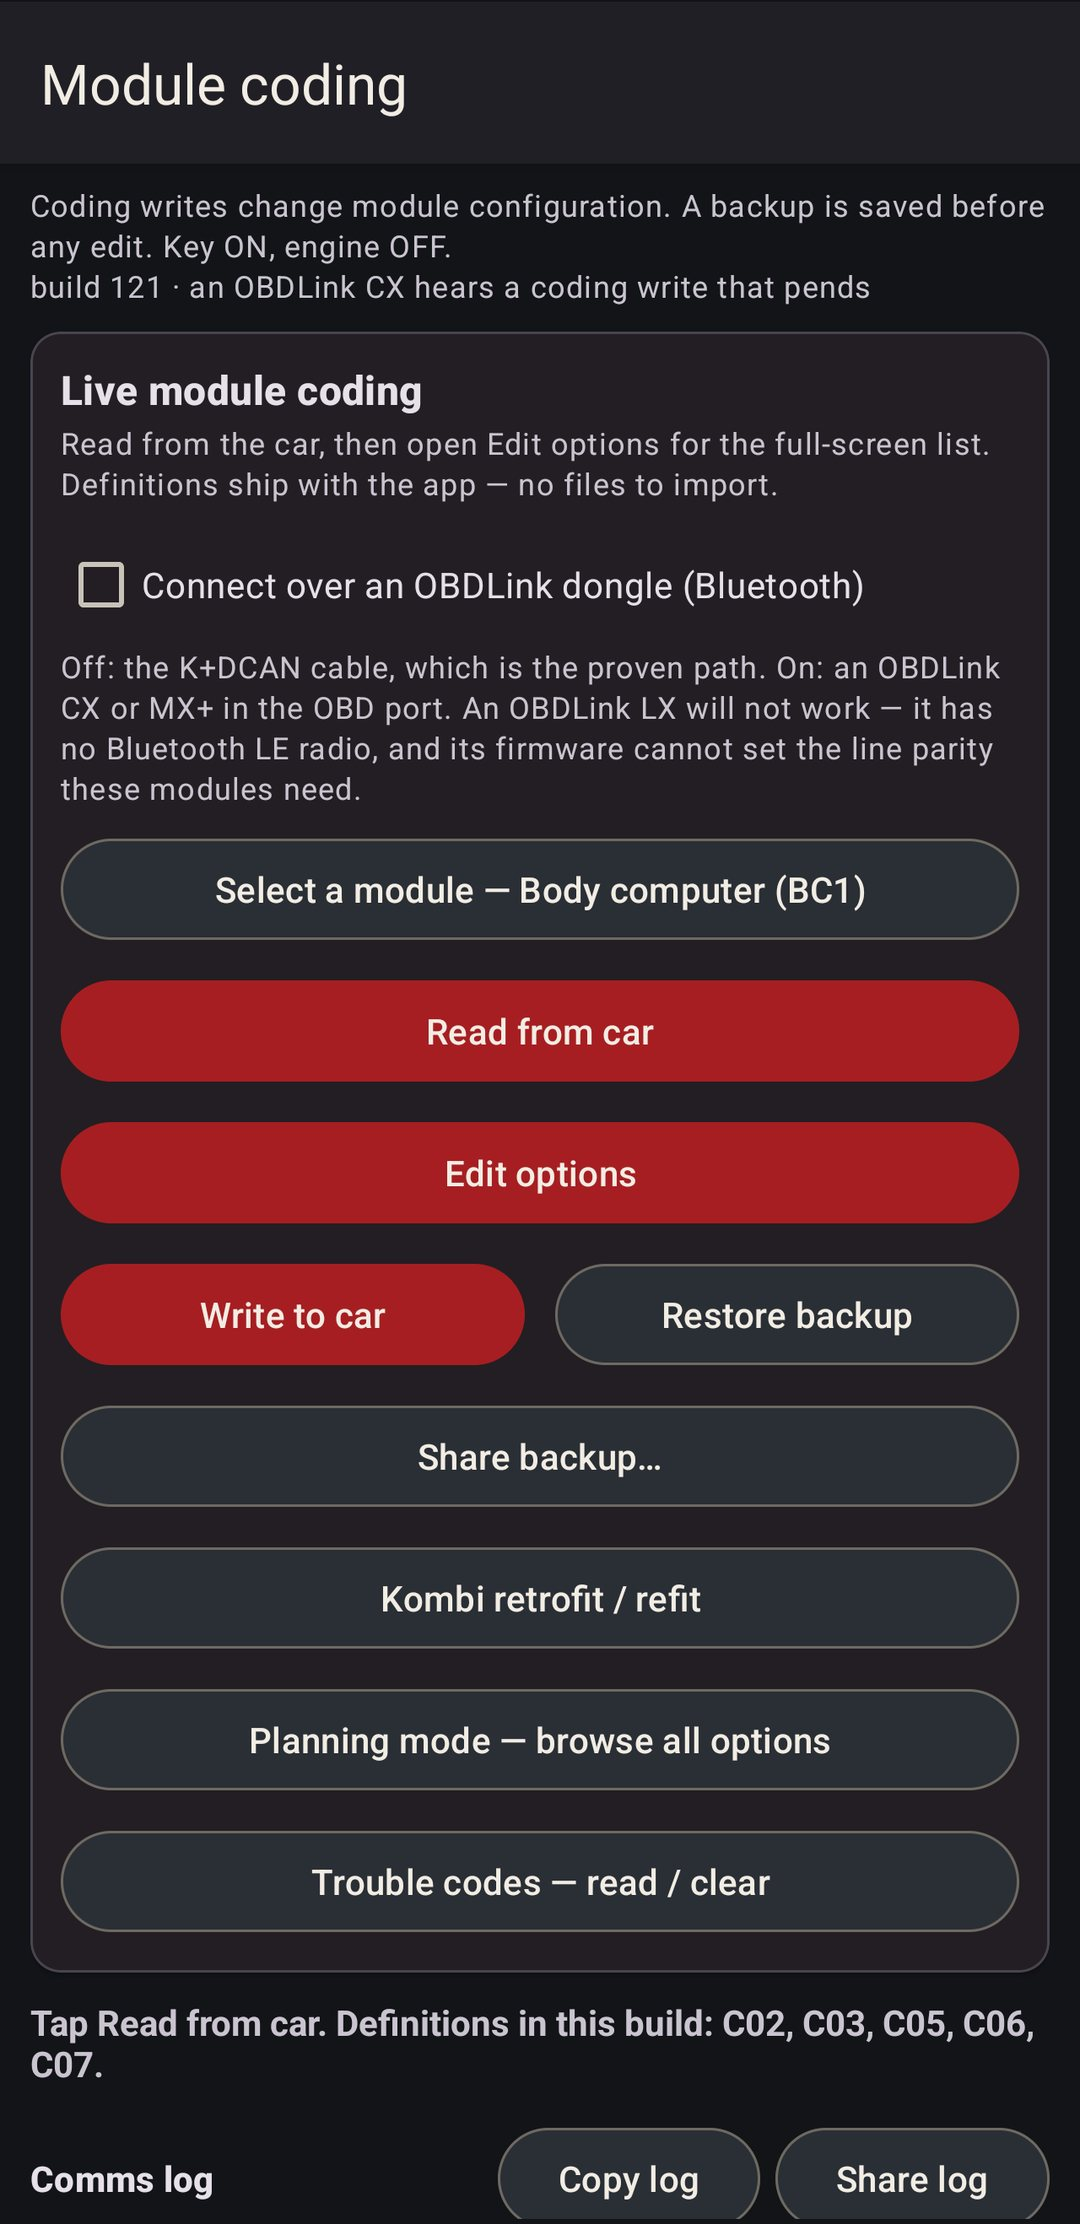
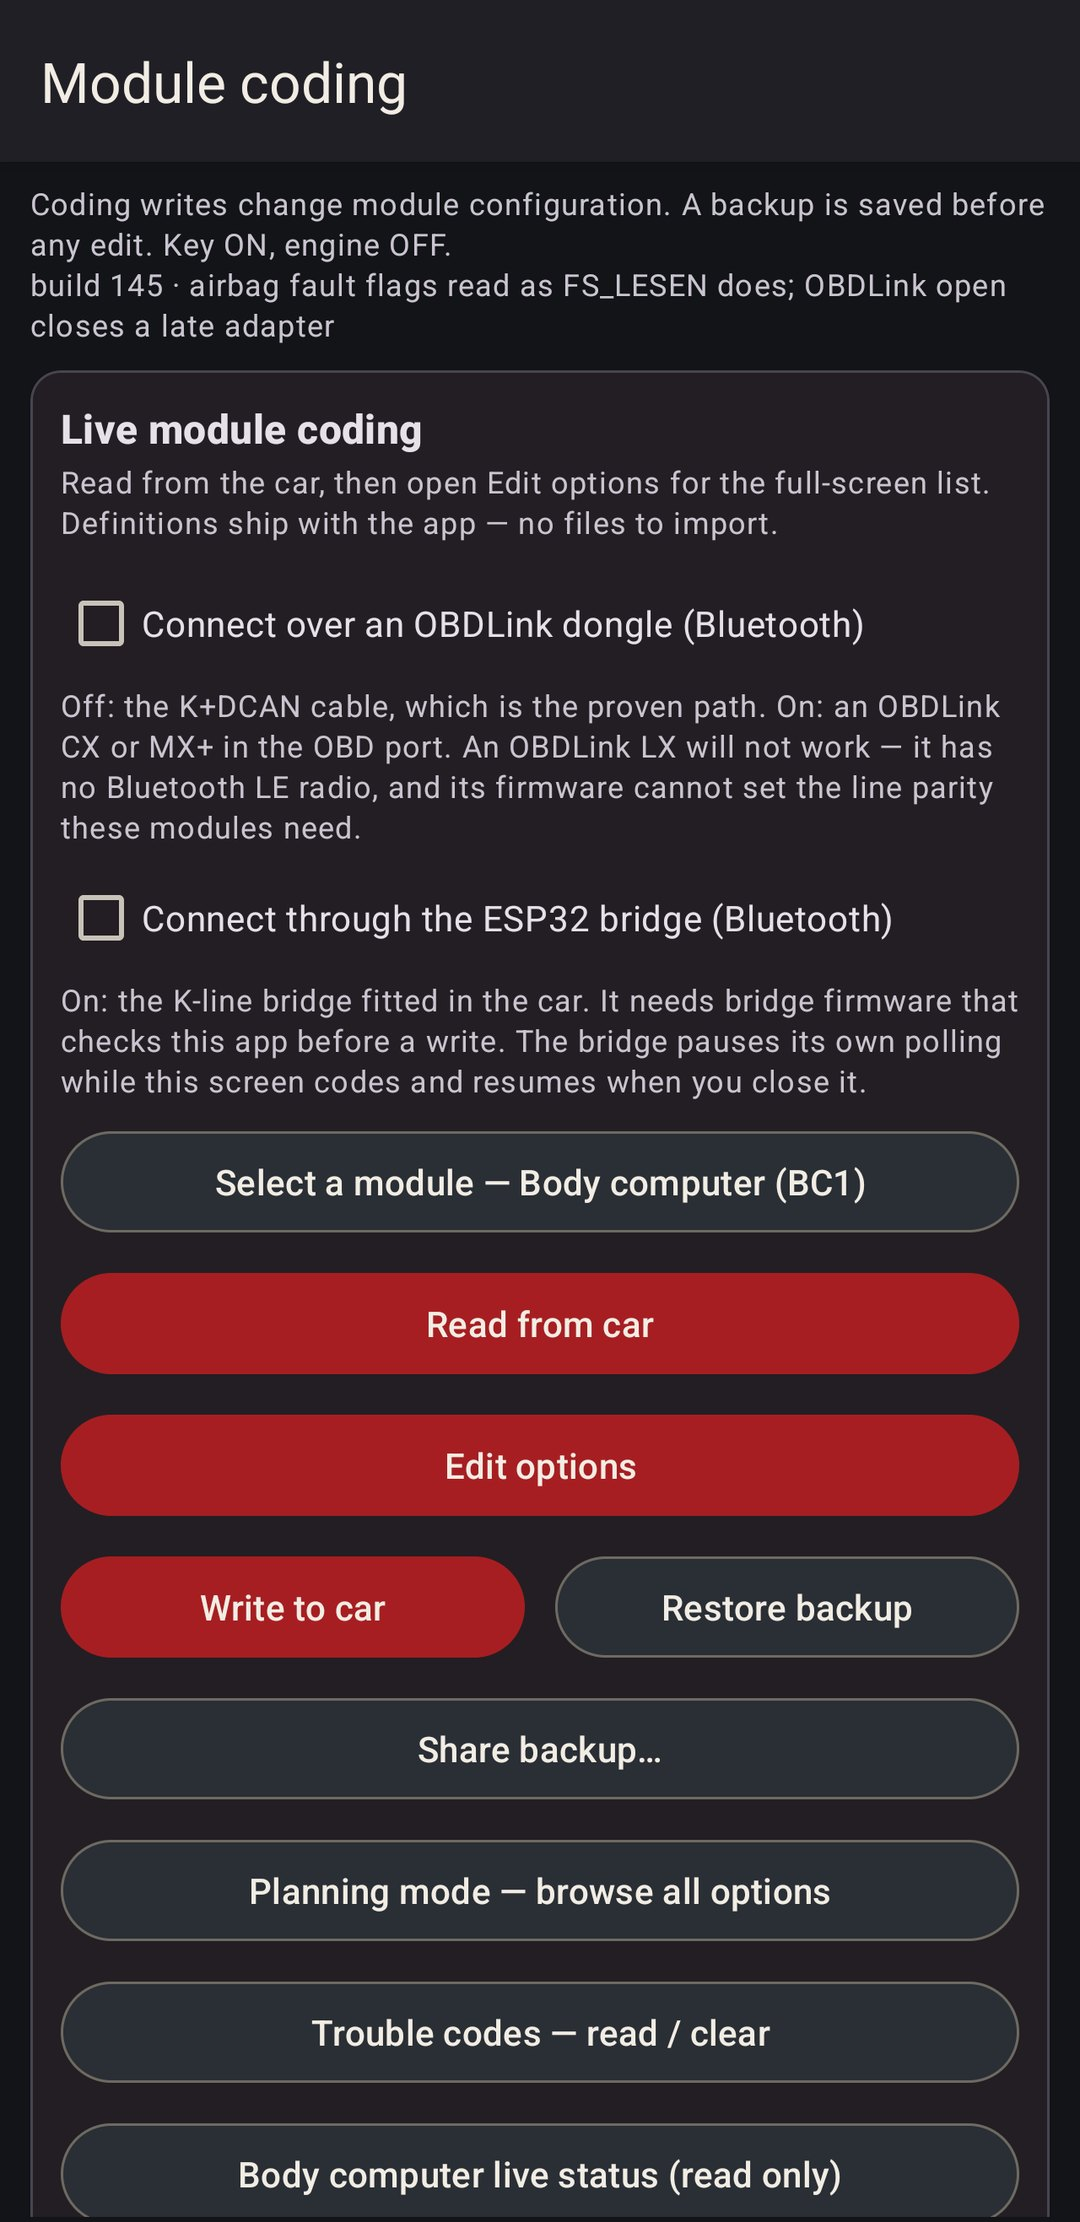
R53 Coding page: diagnostics section, build 145 hub
New section 10 covers the four hub screens added in coding 131-139: body
computer live status (window test, remote key check), body computer tests
and history, the power steering pump (EHPS) and tire pressure. Screenshots
for all four plus a build 145 hub. The section says plainly that none of it
has run on a car and that the shots are an emulator on made-up replies.

Unlock note now says the diagnostic reads are free and their tests, resets
and writes need the unlock. Later sections renumbered 11-15.

Claude-Session: https://claude.ai/code/session_01TVe7KYZoMraKF8iG3p8T4N

diff --git a/_includes/r53-coding-feature.html b/_includes/r53-coding-feature.html
@@ -3,7 +3,11 @@
      condensed display type, and the red tester-signup cards it shares with the logger.
      Rendered by _posts/2026-07-26-r53-coding.md. Edit here, not in the post.
      Screenshots: assets/images/r53-coding/v2/, from a Pixel 10 Pro emulator on
-     coding build 121 with the REDcar (TD91H) backups loaded. -->
+     coding build 121 with the REDcar (TD91H) backups loaded. hub.jpg and the four
+     diagnostics shots (bc1-live, bc1-tools, ehps, tpms) are build 145 debug, with the
+     debug-only buttons hidden. bc1-live runs on the app's own demo_bc1_live replies;
+     the other three ran on a throwaway local demo wire answering with unit-test style
+     replies, never committed. None of those screens has run on a car. -->
 <link rel="preconnect" href="https://fonts.googleapis.com">
 <link rel="preconnect" href="https://fonts.gstatic.com" crossorigin>
 <link rel="stylesheet" href="https://fonts.googleapis.com/css2?family=Big+Shoulders+Display:wght@700;800;900&family=Schibsted+Grotesk:ital,wght@0,400;0,500;0,600;1,400&family=IBM+Plex+Mono:wght@400;500&display=swap">
@@ -113,7 +117,7 @@
 <h1>NCS Expert,<br><em>minus the laptop.</em></h1>
 <p class="lede">R53 Coding reads and writes the settings inside your MINI's modules, the same ones NCS Expert codes, from an Android phone. Seven modules, every setting in plain English, and a backup before anything changes.</p>
 <div class="ctas"><a class="btn red" href="#get-it">Join the testers</a><a class="btn ghost" href="#whats-new">What's new</a></div>
-<p class="news"><b>Updated Sep 30</b> · seven modules, OBDLink CX and MX+, fault codes in English, presets, race seats, speedometer calibration and settings transfer. Sign-up is open to anyone now.</p>
+<p class="news"><b>Updated Oct 5</b> · <a href="#diagnostics">diagnostics</a> for the body computer, the power steering pump and tire pressure, built from the INPA job files and not run on a car yet. Before that: seven modules, OBDLink CX and MX+, fault codes in English, presets, race seats, speedometer calibration and settings transfer. Sign-up is open to anyone.</p>
 </div>
 <figure class="phone"><img src="/assets/images/r53-coding/v2/edit-row.jpg" alt="Edit options on the body computer: brake light warning, country variant and daytime running lights, each with its NCS name, a description and the current value" loading="eager"><figcaption>Body computer · every setting in plain English</figcaption></figure>
 </div>
@@ -132,7 +136,7 @@
 <div class="tiles">
 <a href="#modules"><span class="k">Modules</span><span class="t">Seven, live</span><span class="p">Body, engine, DSC, airbag, cluster, immobilizer and the column pod.</span><span class="bar"></span></a>
 <a href="#connect"><span class="k">Wireless</span><span class="t">OBDLink CX and MX+</span><span class="p">Code over Bluetooth, no cable. An LX can't do it, and the app says so by name.</span><span class="bar"></span></a>
-<a href="#trouble-codes"><span class="k">Diagnostics</span><span class="t">Faults in English</span><span class="p">Every module reads and clears its codes, with names, not bare hex.</span><span class="bar"></span></a>
+<a href="#trouble-codes"><span class="k">Diagnostics</span><span class="t">Faults, live data, tests</span><span class="p">Every module's codes in English. New: live data and tests from the INPA jobs.</span><span class="bar"></span></a>
 <a href="#presets"><span class="k">One tap</span><span class="t">Presets</span><span class="p">Daily Comfort and Track Day stage the usual set of changes for a module.</span><span class="bar"></span></a>
 <a href="#race-seats"><span class="k">Airbag</span><span class="t">Race seats</span><span class="p">Asks which side the driver sits on and shows every airbag it will turn off.</span><span class="bar"></span></a>
 <a href="#speedo"><span class="k">Cluster</span><span class="t">Speedo calibration</span><span class="p">Enter what the cluster and a GPS say. The app works out the new number.</span><span class="bar"></span></a>
@@ -154,7 +158,7 @@
 </ol>
 <p class="body">The comms log at the bottom shows every telegram. If something goes sideways, Share log gets it to me.</p>
 </div>
-<figure class="phone"><img src="/assets/images/r53-coding/v2/hub.jpg" alt="The coding hub: OBDLink checkbox, module picker, Read from car, Edit options, Write to car, Restore backup, Planning mode and Trouble codes" loading="lazy"><figcaption>The hub, build 121</figcaption></figure>
+<figure class="phone"><img src="/assets/images/r53-coding/v2/hub.jpg" alt="The coding hub: OBDLink and ESP32 bridge checkboxes, module picker, Read from car, Edit options, Write to car, Restore backup, Planning mode, Trouble codes and the body computer live status button" loading="lazy"><figcaption>The hub, build 145</figcaption></figure>
 </div>
 </section>
 
@@ -245,10 +249,31 @@
 </div>
 </section>
 
+<section id="diagnostics">
+<p class="eyebrow">10 · Diagnostics</p>
+<h2>Past the <em>fault codes.</em></h2>
+<p class="body">Four new buttons on the hub run the jobs INPA runs, decoded from BMW's own job files: the body computer's live status, its tests and history, the power steering pump, and tire pressure. Reads are free. Anything that drives an output, resets a module or writes to it needs the coding unlock, and leaving a screen hands back whatever it forced on.</p>
+<div class="phones">
+<figure class="phone"><img src="/assets/images/r53-coding/v2/bc1-live.jpg" alt="Body computer live: the windows summary with the passenger window switch up and motor running at 3.77 A, its anti-trap line flagged open in red, then every switch and sensor with the changed ones highlighted" loading="lazy"><figcaption>Body computer live · passenger window running</figcaption></figure>
+<figure class="phone"><img src="/assets/images/r53-coding/v2/bc1-tools.jpg" alt="Body computer tools on a C07: service interval data, alarm history, central locking history, alarm sensor check, then force an output or input, lamp level, analog value, tilt sensor, ride height sensors and headlight leveling" loading="lazy"><figcaption>Body computer tests and history · C07</figcaption></figure>
+</div>
+<dl class="spec">
+<dt>BC1 live</dt><dd><b>Every switch, sensor, output and analog value the body computer reports,</b> refreshed continuously, with a changed line in bold for two seconds. Each window's anti-trap sensor reads as pinch, no pinch or line open. On a C02 or C03, Record window test runs both windows through a close and a full down and up, then says whether it's the motor sensor or wiring, or just needs teaching. Check remote keys tells you if the last press was the right remote, out of sync, the wrong one or a flat battery, and on C05 to C07 which remote slots hold a code. Never the codes themselves.</dd>
+<dt>BC1 tests</dt><dd><b>The body computer's INPA jobs.</b> Service interval data, alarm and central locking history, the alarm sensor check. Then force any output or input, lamp levels, the tilt and ride height sensors, headlight leveling and energy-saving mode. C02 and C03 run BC1.prg, C05 to C07 run BC1RD.prg, and the screen only offers what that file actually has.</dd>
+<dt>EHPS</dt><dd><b>The electro-hydraulic power steering pump.</b> Ident, its seven fault codes, and a live view of battery and motor voltage, motor current and speed, PWM and temperature. Force the pump PWM and hand it back. Run the engine for the pump to work.</dd>
+<dt>Tire pressure</dt><dd><b>Works out which system the car has:</b> the flat tire monitor inside the DSC, the DWS module, or RDC with a sensor in each wheel. Status, faults, and the reset after setting the pressures or changing a tire. On RDC, a live table per wheel and the sensor IDs.</dd>
+</dl>
+<div class="phones">
+<figure class="phone"><img src="/assets/images/r53-coding/v2/ehps.jpg" alt="Power steering pump live view: battery voltage 13.9 V, temperature 38 C, motor current 10 A, motor speed 3240 rpm, PWM 72.9 percent, ignition on, engine running, no faults stored" loading="lazy"><figcaption>Power steering pump · live view</figcaption></figure>
+<figure class="phone"><img src="/assets/images/r53-coding/v2/tpms.jpg" alt="Tire pressure: DSC flat tire monitor found, no module at 0x70, and the flat tire monitor read with no warning, the last reset odometer and the learned speed bands" loading="lazy"><figcaption>Tire pressure · DSC flat tire monitor</figcaption></figure>
+</div>
+<p class="note"><b>None of this has run on a car yet.</b> It's built from the job files and pinned by unit tests, and each screen says so at the top. These screenshots come from an emulator answering with made-up replies, not from a car. If you try one on yours, Send report gets me the read and the telegrams behind it.</p>
+</section>
+
 <section id="planning">
 <div class="split">
 <div>
-<p class="eyebrow">10 · No car needed</p>
+<p class="eyebrow">11 · No car needed</p>
 <h2>Planning <em>mode.</em></h2>
 <p class="body">Every option list opens offline, with no car and no cable, so you can work out what you want before you're sitting in the car. It's free and it can't write anything. It also covers the modules I haven't captured a coding session on yet. What it can't show is your car's current value; that takes a read.</p>
 </div>
@@ -257,7 +282,7 @@
 </section>
 
 <section id="connect">
-<p class="eyebrow">11 · Hardware</p>
+<p class="eyebrow">12 · Hardware</p>
 <h2>How it <em>connects.</em></h2>
 <dl class="spec">
 <dt>K+DCAN cable</dt><dd><b>The proven path.</b> The standard BMW/MINI USB interface, the same one you'd use with INPA or NCS. Every capture behind this app was taken over one. Set its 7/8 switch on. A cable with no switch needs <a href="#pins-7-8">pins 7 and 8 linked</a> at the car.</dd>
@@ -284,7 +309,7 @@
 </section>
 
 <section id="before-you-write">
-<p class="eyebrow">12 · Before you write</p>
+<p class="eyebrow">13 · Before you write</p>
 <h2>Beta, <em>and backups.</em></h2>
 <div class="warn">
 <h3>Keep an NCS Expert backup of anything you touch</h3>
@@ -299,7 +324,7 @@
 </section>
 
 <section id="get-it">
-<p class="eyebrow">13 · Get it</p>
+<p class="eyebrow">14 · Get it</p>
 <h2>Join the <em>testers.</em></h2>
 <p class="body">It's in Google Play testing, so it won't show up in a Play search. Three steps, all with the Google account on your phone:</p>
 <div class="steps">
@@ -319,11 +344,11 @@
 <a class="btn red" href="https://play.google.com/store/apps/details?id=com.geekopolis.r53code" target="_blank" rel="noopener">Open in Play</a>
 </div>
 </div>
-<p class="note">Reading, backups, planning mode and editing are free. <b>Writing to the car is a one-time unlock in Play.</b> Install from Play rather than a sideloaded APK so the unlock works. Stuck? <a href="mailto:matt@geekopolis.com">matt@geekopolis.com</a> or <a href="https://www.instagram.com/mattryan6729/">@mattryan6729</a>.</p>
+<p class="note">Reading, backups, planning mode, editing and the diagnostic reads are free. <b>Writing to the car, and the tests, resets and writes on the diagnostic screens, are a one-time unlock in Play.</b> Install from Play rather than a sideloaded APK so the unlock works. Stuck? <a href="mailto:matt@geekopolis.com">matt@geekopolis.com</a> or <a href="https://www.instagram.com/mattryan6729/">@mattryan6729</a>.</p>
 </section>
 
 <section id="fine-print">
-<p class="eyebrow">14 · Fine print</p>
+<p class="eyebrow">15 · Fine print</p>
 <ul class="list">
 <li><b>Track and DIY use.</b> You're writing module configuration on a twenty-year-old car.</li>
 <li><b>Key on, engine off,</b> for every read and write. Keep a battery charger on for long sessions.</li>
@@ -332,6 +357,6 @@
 </ul>
 </section>
 
-<p class="last">R53 Coding is the companion to the <a href="/car/tech/2026/08/18/r53-logger-august-update.html">R53 Logger - Flasher</a>: separate app, separate unlock, same cable. The shift light and the K-line + CAN bridge are at <a href="https://ryansdesigns.geekopolis.com/shiftlight/">ryansdesigns.geekopolis.com/shiftlight</a>. Screenshots from coding build 121 with REDcar's backups loaded.</p>
+<p class="last">R53 Coding is the companion to the <a href="/car/tech/2026/08/18/r53-logger-august-update.html">R53 Logger - Flasher</a>: separate app, separate unlock, same cable. The shift light and the K-line + CAN bridge are at <a href="https://ryansdesigns.geekopolis.com/shiftlight/">ryansdesigns.geekopolis.com/shiftlight</a>. Coding screenshots from build 121 with REDcar's backups loaded; the hub and the diagnostics screens from build 145, on made-up replies.</p>
 
 </div>

diff --git a/_posts/2026-07-26-r53-coding.md b/_posts/2026-07-26-r53-coding.md
@@ -1,12 +1,12 @@
 ---
 title: "R53 Coding - Module Coding from Your Phone"
 date: 2026-07-26 00:30:00 -0400
-last_modified_at: 2026-09-30 20:00:00 -0400
+last_modified_at: 2026-10-05 04:00:00 -0400
 categories: car tech
-tags: [mini, r53, r52, android, coding, ncs-expert, kdcan, obdlink, bc1, ems, mk60, mrs5k, kmb, ews3, module-coding, race-seats, speedometer, diagnostics, play-store]
+tags: [mini, r53, r52, android, coding, ncs-expert, kdcan, obdlink, bc1, ems, mk60, mrs5k, kmb, ews3, module-coding, race-seats, speedometer, diagnostics, inpa, ehps, tire-pressure, play-store]
 cover: /assets/images/r53-coding/v2/cover.jpg
 lightbox: true
-excerpt: "NCS Expert, minus the laptop. Seven R53 modules coded from an Android phone, every setting in plain English, and a backup before anything changes. Sign-up is open."
+excerpt: "NCS Expert, minus the laptop. Seven R53 modules coded from an Android phone, every setting in plain English, and a backup before anything changes. New: diagnostics for the body computer, power steering pump and tire pressure. Sign-up is open."
 article_header:
   type: overlay
   theme: dark
